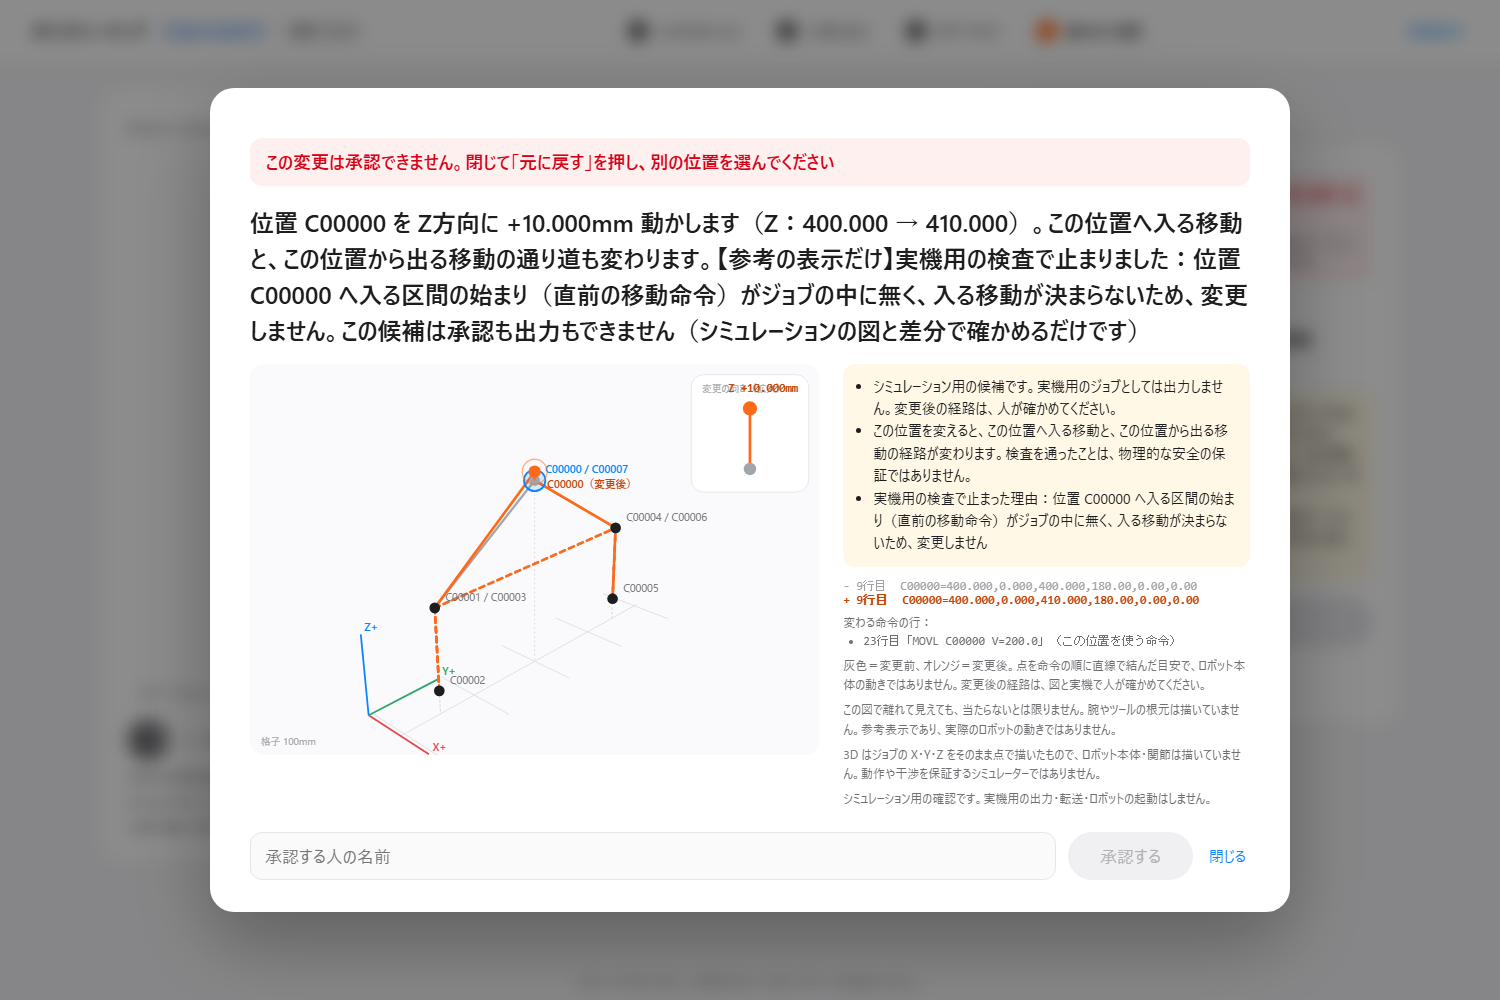
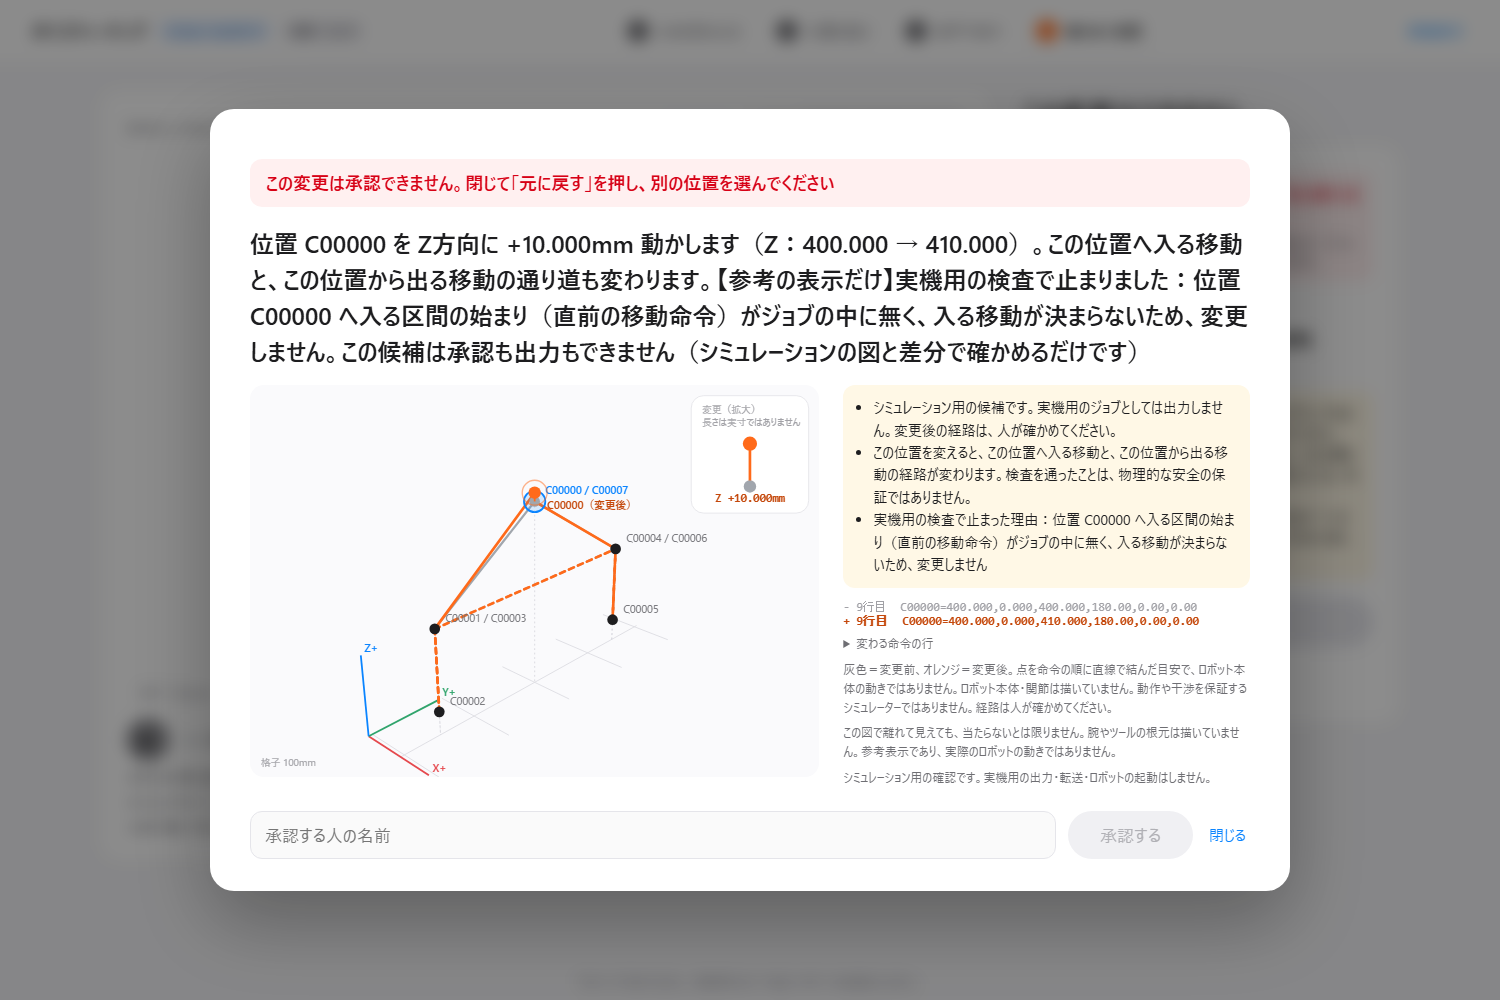
内部レビューの再確認の指摘を直し、レビューの記録と自己評価を追加
- UX 再評価の P1：拡大の窓の見出しと量が重なる → 見出しを2行・量を下へ。e2e で重なりを測る
- UX 再評価の P1：確認表示の文字を減らす（注記をまとめ、変わる命令の行は折りたたみ。安全の注記は残す）
- 位置を選ぶ見出しを短く、3D の軸の原点を点の群れから遠い床の角へ
- Safety 再レビューの P3：「量を超えています」の見出しは、移動量の上限を超えたときだけ（テスト追加）。拡大の窓に「長さは実寸ではありません」
- e2e：再生中に描き直される点の位置を1回で測る（まれに失敗していた確認の道具の側の不安定を直す）
- reviews/REVIEW_3D_VOICE_001.md：UX・QA・Safety の内部レビューの流れ、最終の確認、100点満点の自己評価（73点）と根拠

diff --git a/voice_teaching/web/static/view3d.js b/voice_teaching/web/static/view3d.js
@@ -162,17 +162,20 @@ export class View3D {
     const len = Math.hypot(dx, dy);
     const g = svgEl("g", { class: "inset" });
     g.append(svgEl("rect", { x: x0, y: y0, width: S, height: S, rx: 14, fill: "#fff", stroke: "#e5e5ea" }));
-    const cx = x0 + S / 2, cy = y0 + S / 2 + 6;
+    const cx = x0 + S / 2, cy = y0 + S / 2 + 12;
     let ux = 0, uy = -1;
     if (len > 0.01) { ux = dx / len; uy = dy / len; }
-    const L = 34;  // 窓の中では、向きはそのまま・長さは決まった大きさで見せる
+    const L = 24;  // 窓の中では、向きはそのまま・長さは決まった大きさで見せる
     const ax = cx - ux * L, ay = cy - uy * L, bx = cx + ux * L, by = cy + uy * L;
     g.append(svgEl("line", { x1: ax, y1: ay, x2: bx, y2: by, stroke: "#ff6a1a", "stroke-width": 3, "stroke-linecap": "round" }));
     g.append(svgEl("circle", { cx: ax, cy: ay, r: 7, fill: "#a1a6ad" }));
     g.append(svgEl("circle", { cx: bx, cy: by, r: 8, fill: "#ff6a1a" }));
     const head = svgEl("text", { x: x0 + 12, y: y0 + 20, class: "inset-head" });
-    head.textContent = "変更の向き（拡大）";
-    const amt = svgEl("text", { x: x0 + S - 12, y: y0 + 20, "text-anchor": "end", fill: "#c4470a", "font-weight": "700", class: "inset-amt" });
+    head.textContent = "変更（拡大）";
+    const sub = svgEl("text", { x: x0 + 12, y: y0 + 34, class: "inset-head" });
+    sub.textContent = "長さは実寸ではありません";
+    g.append(sub);
+    const amt = svgEl("text", { x: x0 + S / 2, y: y0 + S - 12, "text-anchor": "middle", fill: "#c4470a", "font-weight": "700", class: "inset-amt" });
     amt.textContent = label;
     g.append(head, amt);
     svg.append(g);
@@ -192,14 +195,19 @@ export class View3D {
     for (let x = Math.ceil(x0 / step) * step; x <= x1; x += step) line([x, y0, z0], [x, y1, z0], { stroke: "#dcdce2", "stroke-width": 1 });
     for (let y = Math.ceil(y0 / step) * step; y <= y1; y += step) line([x0, y, z0], [x1, y, z0], { stroke: "#dcdce2", "stroke-width": 1 });
     // 軸（床の角から、格子1目盛りの長さ）
-    const o = [x0, y0, z0];
-    const axes = [["X", [step, 0, 0], "#e5484d"], ["Y", [0, step, 0], "#30a46c"], ["Z", [0, 0, step], "#0a84ff"]];
+    const pts = this.data.points.map((p) => this.project(p.xyz));
+    const mx = pts.reduce((a, q) => a + q[0], 0) / pts.length, my = pts.reduce((a, q) => a + q[1], 0) / pts.length;
+    const corners = [[x0, y0, z0], [x1, y0, z0], [x0, y1, z0], [x1, y1, z0]];
+    const far = (c) => { const q = this.project(c); return Math.hypot(q[0] - mx, q[1] - my); };
+    const o = corners.reduce((a, c) => (far(c) > far(a) ? c : a));
+    const sx = o[0] === x0 ? 1 : -1, sy = o[1] === y0 ? 1 : -1;  // 角から床の内側へ向けて描く（＋の向きは矢印の先の文字で示す）
+    const axes = [["X", [sx * step, 0, 0], "#e5484d"], ["Y", [0, sy * step, 0], "#30a46c"], ["Z", [0, 0, step], "#0a84ff"]];
     for (const [name, dv, color] of axes) {
       const end = [o[0] + dv[0], o[1] + dv[1], o[2] + dv[2]];
       line(o, end, { stroke: color, "stroke-width": 2 });
       const p = this.project(end);
       const t = svgEl("text", { x: p[0] + 4, y: p[1] - 4, fill: color, class: "axis3", "font-weight": "600" });
-      t.textContent = name + "+";
+      t.textContent = name + (name === "X" ? (sx > 0 ? "+" : "−") : name === "Y" ? (sy > 0 ? "+" : "−") : "+");
       g.append(t);
     }
     const s = svgEl("text", { x: 12, y: this.H - 12, class: "axis" });

diff --git a/voice_teaching/web/static/index.html b/voice_teaching/web/static/index.html
@@ -200,11 +200,9 @@
       <div>
         <ul id="confirm-warnings" class="confirm-warnings" aria-label="この変更の注意"></ul>
         <div id="confirm-diff" class="diff"></div>
-        <p class="fine">変わる命令の行：</p>
-        <ul id="confirm-affected" class="confirm-affected"></ul>
-        <p class="fine">灰色＝変更前、オレンジ＝変更後。点を命令の順に直線で結んだ目安で、ロボット本体の動きではありません。変更後の経路は、図と実機で人が確かめてください。</p>
+        <details class="fine"><summary>変わる命令の行</summary><ul id="confirm-affected" class="confirm-affected"></ul></details>
+        <p class="fine">灰色＝変更前、オレンジ＝変更後。点を命令の順に直線で結んだ目安で、ロボット本体の動きではありません。ロボット本体・関節は描いていません。動作や干渉を保証するシミュレーターではありません。経路は人が確かめてください。</p>
         <p class="fine confirm-figure-note">この図で離れて見えても、当たらないとは限りません。腕やツールの根元は描いていません。参考表示であり、実際のロボットの動きではありません。</p>
-        <p class="fine">3D はジョブの X・Y・Z をそのまま点で描いたもので、ロボット本体・関節は描いていません。動作や干渉を保証するシミュレーターではありません。</p>
         <p class="fine">シミュレーション用の確認です。実機用の出力・転送・ロボットの起動はしません。</p>
       </div>
     </div>

diff --git a/voice_teaching/web/static/app.js b/voice_teaching/web/static/app.js
@@ -240,7 +240,7 @@ function renderSteps() {
     text = "JOBファイルをドロップしてください";
     primary = "drop-zone";
   } else if (step === 2) {
-    text = "図の点か、下の番号を押してください";
+    text = "点か番号を押してください";
   } else if (step === 3) {
     if (recording()) {
       text = "どうぞ、話してください";
@@ -336,7 +336,7 @@ function showReply(status, message) {
   box.className = "reply " + status;
   if (status === "ok") box.replaceChildren(el("p", {}, message));
   else if (status === "ask") box.replaceChildren(friendly("ask", message));
-  else if (/まで(です)?|上限/.test(message || "")) box.replaceChildren(friendly("limit", message));
+  else if (/上限[^。]*を超え/.test(message || "")) box.replaceChildren(friendly("limit", message));  // 移動量の上限を超えたときだけ
   else box.replaceChildren(friendly("stop", message));
   box.hidden = false;
   $("voice-status").textContent = "";

diff --git a/tools/e2e_browser.py b/tools/e2e_browser.py
@@ -224,8 +224,12 @@ def check_four_steps(browser, url, check, shots: Path | None) -> None:
         page.mouse.move(x, y); page.mouse.down(); page.wait_for_timeout(ms); page.mouse.up()
 
     def pos_of(page, name):
-        box = pt(page, name).bounding_box()
-        return (round(box["x"] + box["width"] / 2), round(box["y"] + box["height"] / 2))
+        # 再生中は描き直されるので、探す・測るを1回で行う
+        x, y = page.evaluate("""(name) => {
+          const g = [...document.querySelectorAll('#fig-3d g.pt3')].find((e) => e.dataset.names.split(' ').includes(name));
+          const cs = g.querySelectorAll('circle'); const r = cs[cs.length - 1].getBoundingClientRect();
+          return [r.x + r.width / 2, r.y + r.height / 2]; }""", name)
+        return (round(x), round(y))
 
     # ドロップのデータを作るのに evaluate を使うので、この確認のページだけ CSP を外す（画面のファイルは変えない）
     ctx = browser.new_context(viewport={"width": 1500, "height": 1000}, bypass_csp=True)
@@ -388,6 +392,11 @@ def check_four_steps(browser, url, check, shots: Path | None) -> None:
           "3D に変更後の経路（オレンジ）と変更後の点を出す")
     check(pg.text_content("#fig-3d .inset-amt") == "Z +10.000mm",
           f"小さな変更も見えるよう、拡大の窓に向きと量を出す：{pg.text_content('#fig-3d .inset-amt')}")
+    gap = pg.evaluate("""() => {  // 再生中は描き直されるので、同じ時点の2つの四角を1回で測る
+      const h = document.querySelector('#fig-3d .inset-head').getBoundingClientRect();
+      const a = document.querySelector('#fig-3d .inset-amt').getBoundingClientRect();
+      return a.top - h.bottom; }""")
+    check(gap > 0, f"拡大の窓の見出しと量が重ならない（間 {gap:.0f}px）")
     check(cards(pg) == ["candidate-panel"] and primaries(pg) == 1
           and "primary" in (pg.get_attribute("#open-confirm", "class") or ""),
           "ステップ4は「確認して承認へ」だけが目立つ")

diff --git a/tests/test_3d_voice.py b/tests/test_3d_voice.py
@@ -129,3 +129,19 @@ def test_confirm_shows_unplottable_note_3d_limit_and_affected_lines():
 def test_live_mic_turns_off_after_a_while():
     v = text("app.js")
     assert "LIVE_MAX_MS" in v and "state.live = false" in v
+
+
+# ---- 内部 Safety 再レビュー #1：「量を超えています」の見出しは、移動量の上限を超えたときだけ ----
+def test_limit_heading_only_for_amount_limit():
+    j = text("app.js")
+    m = re.search(r'else if \(/(.+?)/\.test\(message \|\| ""\)\) box\.replaceChildren\(friendly\("limit"', j)
+    assert m
+    rx = re.compile(m.group(1))
+    from voice_teaching import jbi, utterance
+    wf = WebFlow(interpreter=MockInterpreter())
+    sid = wf.load(DEMO_C.read_bytes())["session_id"]
+    wf.select(sid, "C00005")
+    over = wf.hear(sid, "この位置を上に50mm", "text")["message"]
+    assert rx.search(over)
+    for msg in ["指示の文字が長すぎます（500文字まで）", utterance.SIDE_MESSAGE, jbi.SPEED_DISABLED_MESSAGE]:
+        assert not rx.search(msg), msg

diff --git a/reviews/REVIEW_3D_VOICE_001.md b/reviews/REVIEW_3D_VOICE_001.md
@@ -1,0 +1,52 @@
+# REVIEW_3D_VOICE_001：feat/3d-voice の内部レビュー（UX・QA・Safety）と自己評価
+
+- 日時：2026-11-02 夜〜11-03 未明
+- 対象：`feat/3d-voice`（元：86c1a89）。コミット b423d58 → 44b9d3a → 02764ce → 32bf192 → 最終コミット
+- 実装担当：シクロ（メイン）。レビュー担当：同じ Claude のサブエージェント3つ（UX・QA・Safety）
+- **注意**：サブエージェントは別の文脈で動くが同じ Claude。外部の独立レビュー（クロちゃん・チャッピー）の代わりにはならない
+- 実行していない確認を「実施済み」とは書かない。下の表は、各担当が実際に実行したコマンド・スクリプトの結果だけ
+
+## 1. 流れ
+
+| 順 | 担当 | 対象 | 判定・点 | 主な指摘 | 対応 |
+|---|---|---|---|---|---|
+| 1 | UX | 44b9d3a | UI 18/25・3D 13/20 | 10mm の変化が見えない、回転が敏感、選び分けで止まる位置を選べる・閉じられない、一時停止中のマイクの意味、目立つ操作が0の画面 | 02764ce で直す（拡大の窓、回転の範囲、×・Esc・薄い表示、「マイク ON（押すと OFF）」、見出し、方式の枠） |
+| 2 | Safety | 44b9d3a（途中の変更を含む） | CONDITIONAL PASS | #1 P2 確認表示に「描けない点」の注記が無い、#2 3D の限界の注記、#3 変わる命令の行、#4 符号なしの軸の扱い（仕様確認）、#5 マイク ON が長く続く | #1〜#3・#5 を 02764ce で直す。#4 は唐川さんの判断へ |
+| 3 | QA | 44b9d3a と 02764ce（git archive で固定） | CONDITIONAL PASS | #1 P2 再生中は点を選べない、#2 新しいジョブでもマイク ON、#3 入力欄を消すと自動で聞く、#4 閉じたあとのフォーカス、#5 拡大で一覧が残る、#6 候補がある間に図の点で候補が消える | すべて 32bf192 で直す |
+| 4 | Safety 再 | 32bf192（git archive） | **PASS**（シミュレーション用に限る） | P3：#1 「量を超えています」の見出しが他の停止にも付く、#2 符号なしの軸（仕様確認）、#3 拡大の窓は実寸でない | #1 判定を「上限…を超え」に絞りテスト追加。#3 窓に「長さは実寸ではありません」 |
+| 5 | UX 再 | 32bf192（git archive） | UI 20/25・3D 15/20 | P1 拡大の窓の文字が重なる、P1 確認表示の文字が多い（785字）、P2 見出しの折り返し・止まる位置のチップ・軸ラベルの重なり・サーバーの文 | 窓の文字を分けて e2e で重なりを測る。確認表示の注記をまとめ、変わる命令の行は折りたたみ。見出しを短く。軸の原点を点から遠い角へ |
+
+## 2. 最終コミットで実行した確認（シクロ）
+
+- `python -m pytest -q`：**977 passed**（2回続けて）
+- `python tools/e2e_browser.py --shots docs/ui-3d`：**OK 78・NG 0**「すべて通りました」
+- e2e の不安定（7回に1回ほど、ブラウザーの通し確認が失敗）：原因は確認の道具の側（再生中に描き直される点の位置を測るとき要素が入れ替わる）。測る処理を1回にまとめて直し、そのあと6回続けて通った
+- 実際の Chrome 156 での音声認識の確認（docs/3D_VOICE.md の表）
+
+## 3. 自己評価（100点満点）
+
+未確認の機能は満点にしない。自己採点だけで点を上げない（UX の点は UX 担当の再評価の値を使う。最後の直しの後は測り直していないので上げない）。
+
+| 項目 | 点 | 根拠（実行した確認） | 満点にならない理由 |
+|---|---|---|---|
+| UIのシンプルさ | **20 / 25** | UX 再評価（32bf192）の値。最初の画面148字・ボタン1つ、どの画面も目立つボタンは1つ以下、右側は今のカードだけ | 確認表示の見出し（サーバーの文）が長い、目立つ操作が0の画面が2つ、サーバーの文の二重括弧・「仮の上限（確認待ち）」 |
+| 3D表示・操作性 | **15 / 20** | UX 再評価（32bf192）。回転・拡大縮小・視点を戻す・選ぶ・選び分け・変更前後・再生を e2e で確認、22本のサンプルで JS エラーなし（QA） | 主図で変更前後の点・ラベルが重なる、軸ラベルと点のラベルの重なり。拡大の窓の直しは再評価していない |
+| 音声入力 | **13 / 20** | 偽の音声認識で ON/OFF・続けて聞く・自動で送らない・失敗で文字へ・3分で OFF・言語パックのボタンを e2e で確認。実際の Chrome で「ブラウザー標準」のサーバーに届くこと（認識結果が返った）と、日本語の端末内データが入ることを確認 | **実マイクでの認識は未確認**。偽のマイクからの既定の方法は no-speech。認識の精度は未確認 |
+| Claude連携 | **12 / 20** | 偽のクライアントで、軸と向きの道具・照らし合わせ（Safety：36件で発話と違う候補0）、失敗時の固定文、キーを出さない、画面でモック／Claude を区別 | **本物の API で未確認**（キーが無い）。Claude の解釈の質は測っていない |
+| 安定性・品質 | **13 / 15** | 977 passed、e2e 78 OK、QA の壊し方（回転・拡大の限界、ホイール600回、失敗の連打、hang、900px 幅、静的ファイル）で固まり・ループ・JS エラーなし。Safety 再レビュー PASS | 通しの確認の不安定を直したのは最後（回数が少ない）。実環境（実マイク・実 API）での確認が無い |
+| **合計** | **73 / 100** | | |
+
+### 90点に届かない理由と、届かせるのに要ること
+
+- 今夜は直せないもの（唐川さんの手元が要る）：実マイクでの認識（音声 +5 前後）、本物の Claude API での確認（Claude連携 +6 前後）
+- 直せるが今夜は残したもの：
+  - サーバーの文の言い回し（確認の見出し・「仮の上限」・二重括弧・「ツール番号 0」）。検査・確認の文の言い回しは安全の線引きに近いので、唐川さんとクロちゃんの確認の後に
+  - 3D のラベルの重なりを避ける配置。止まる位置を選んだ時の早めの案内
+- 安全上の重大な問題・既存機能の退行：内部 Safety 再レビューでは見つかっていない（P1・P2 なし）。既存のテスト（feat/ui-4steps までの 953件）を含む 977件が通る
+
+## 4. 唐川さん・クロちゃんに判断してほしいこと
+
+1. 符号を言わない軸の指示（「Y方向に3mm」）を + とする今の決まりで良いか（内部 Safety #4。本物の Claude でも通るようになった）
+2. 「上」「下」= Z± を、FRAME が無い間も使い続けて良いか（FRAME v1.1 6章のとおりにしている）
+3. 2つの変更をまとめて1つの候補にする機能を作るか（今は各軸の量を示して聞き返すだけ）
+4. マイク ON のまま3分で OFF、という長さ
